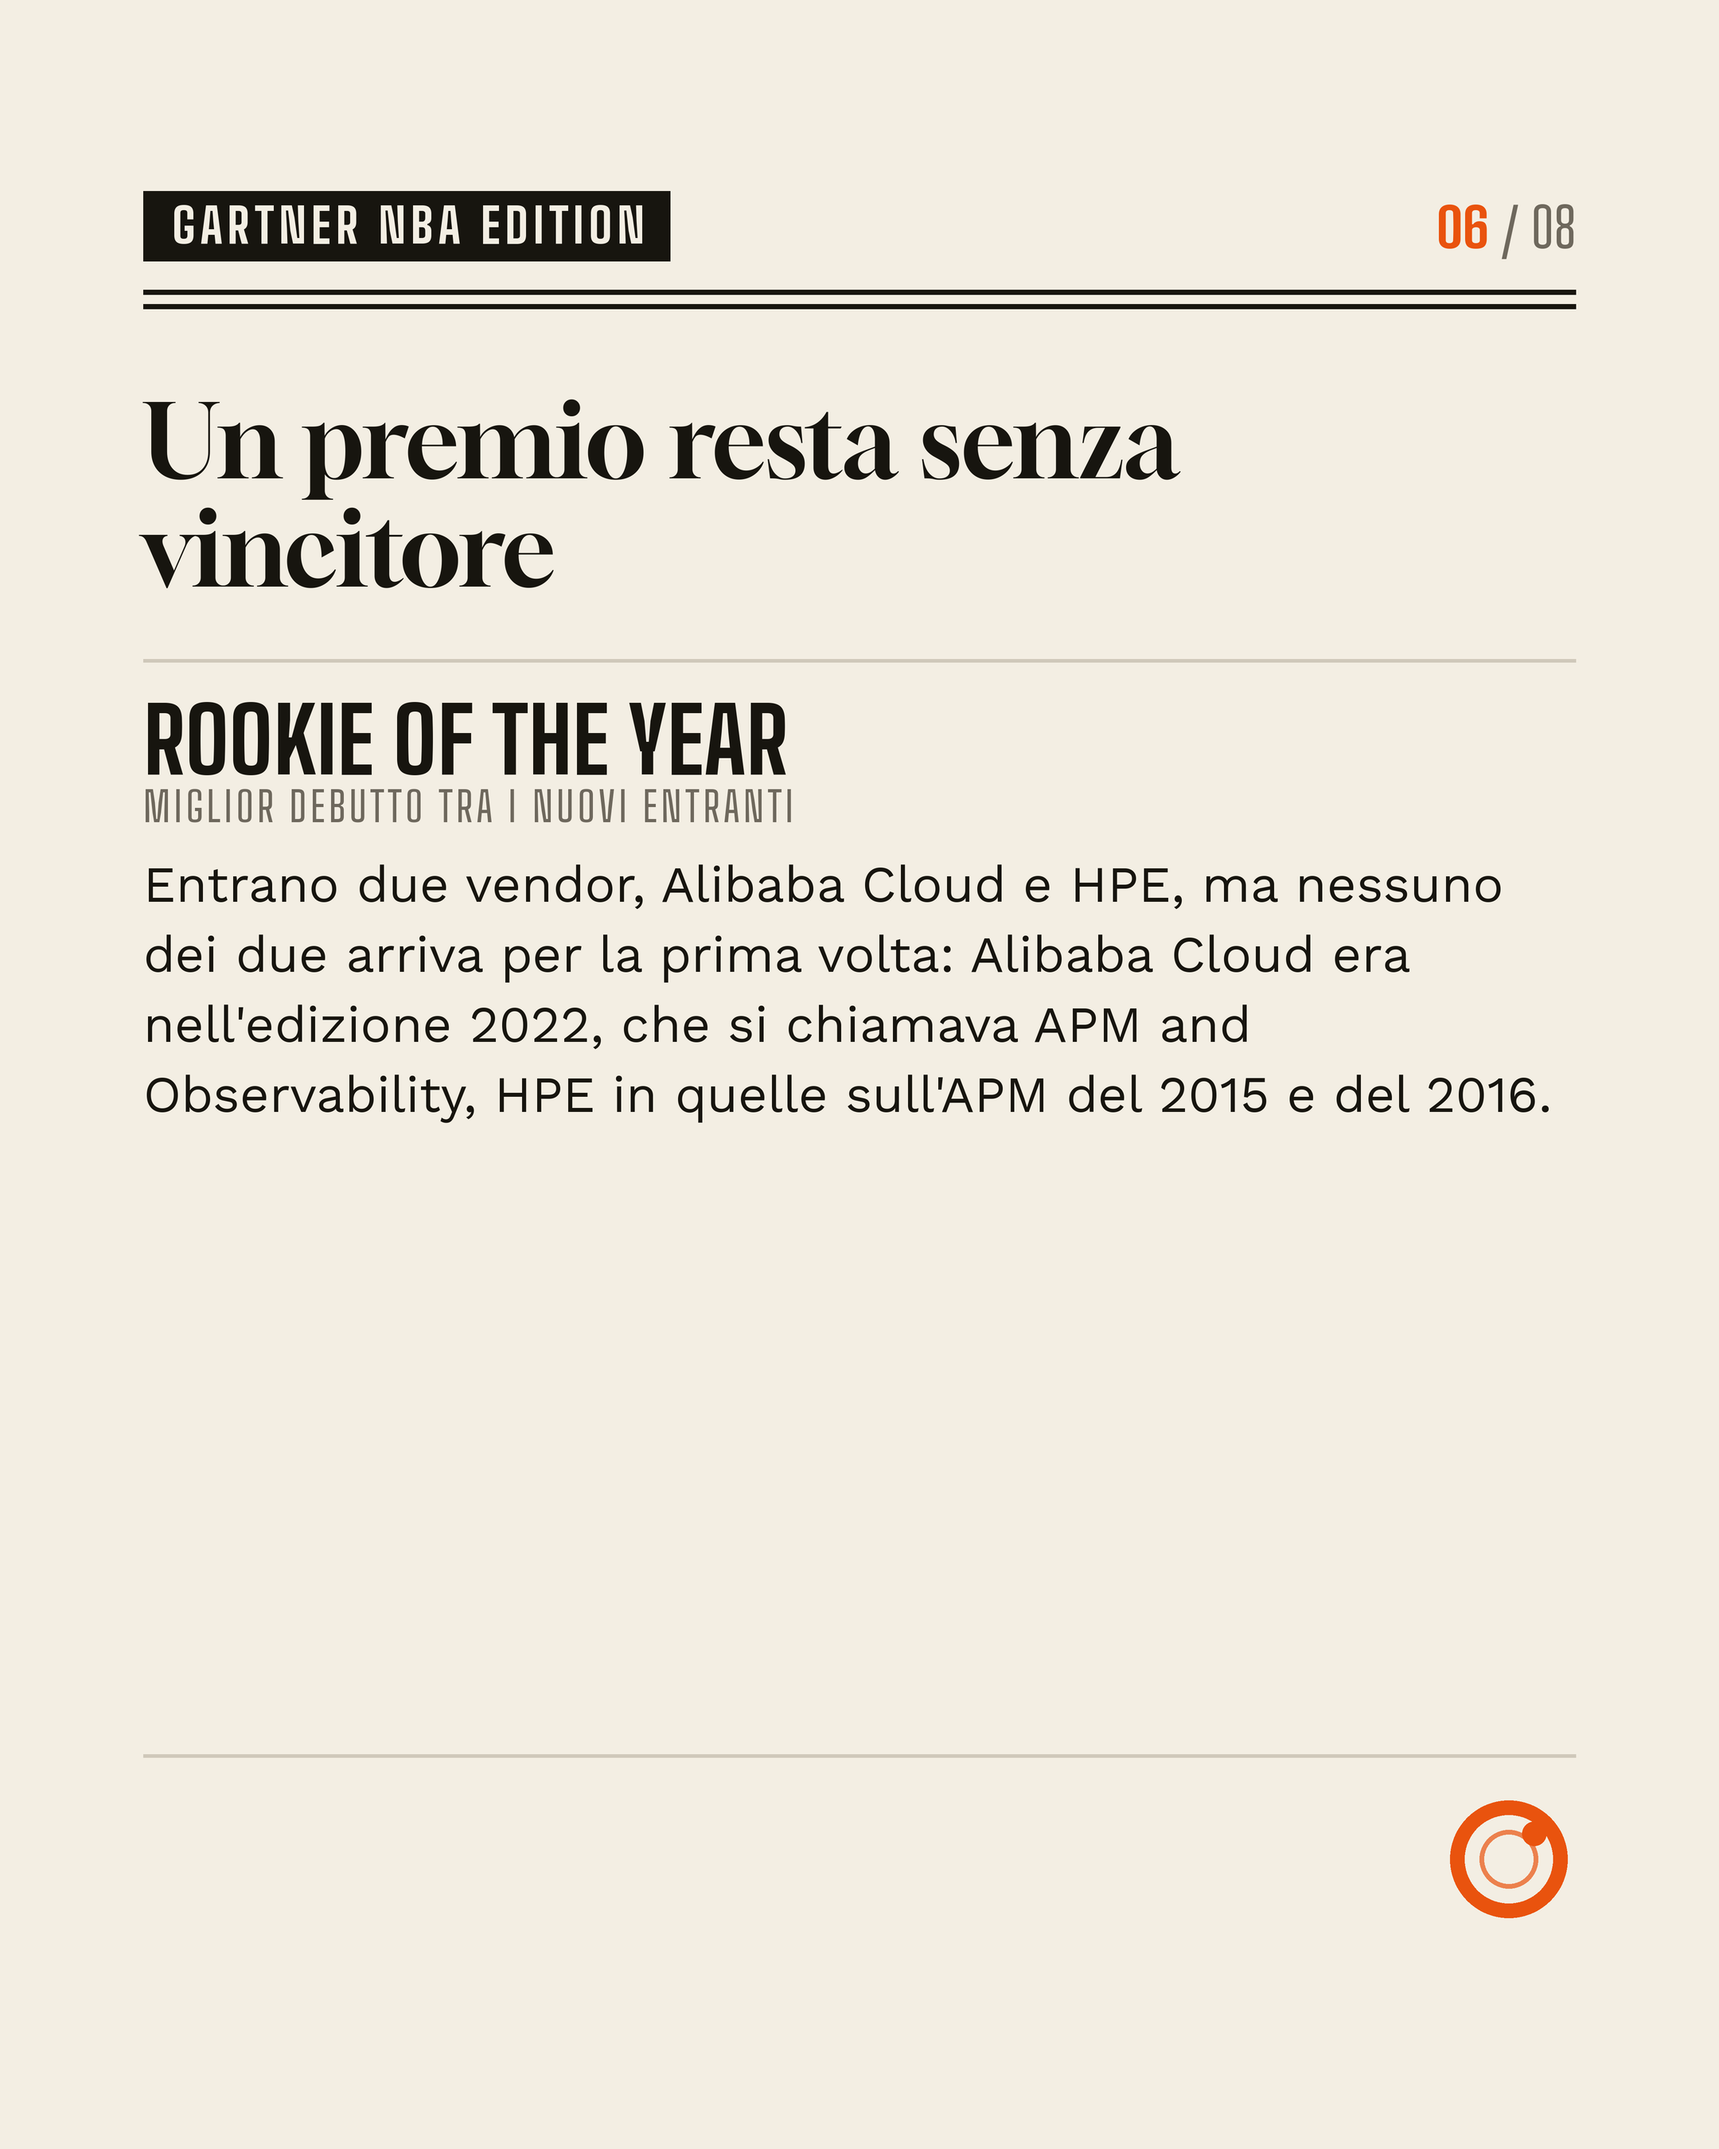
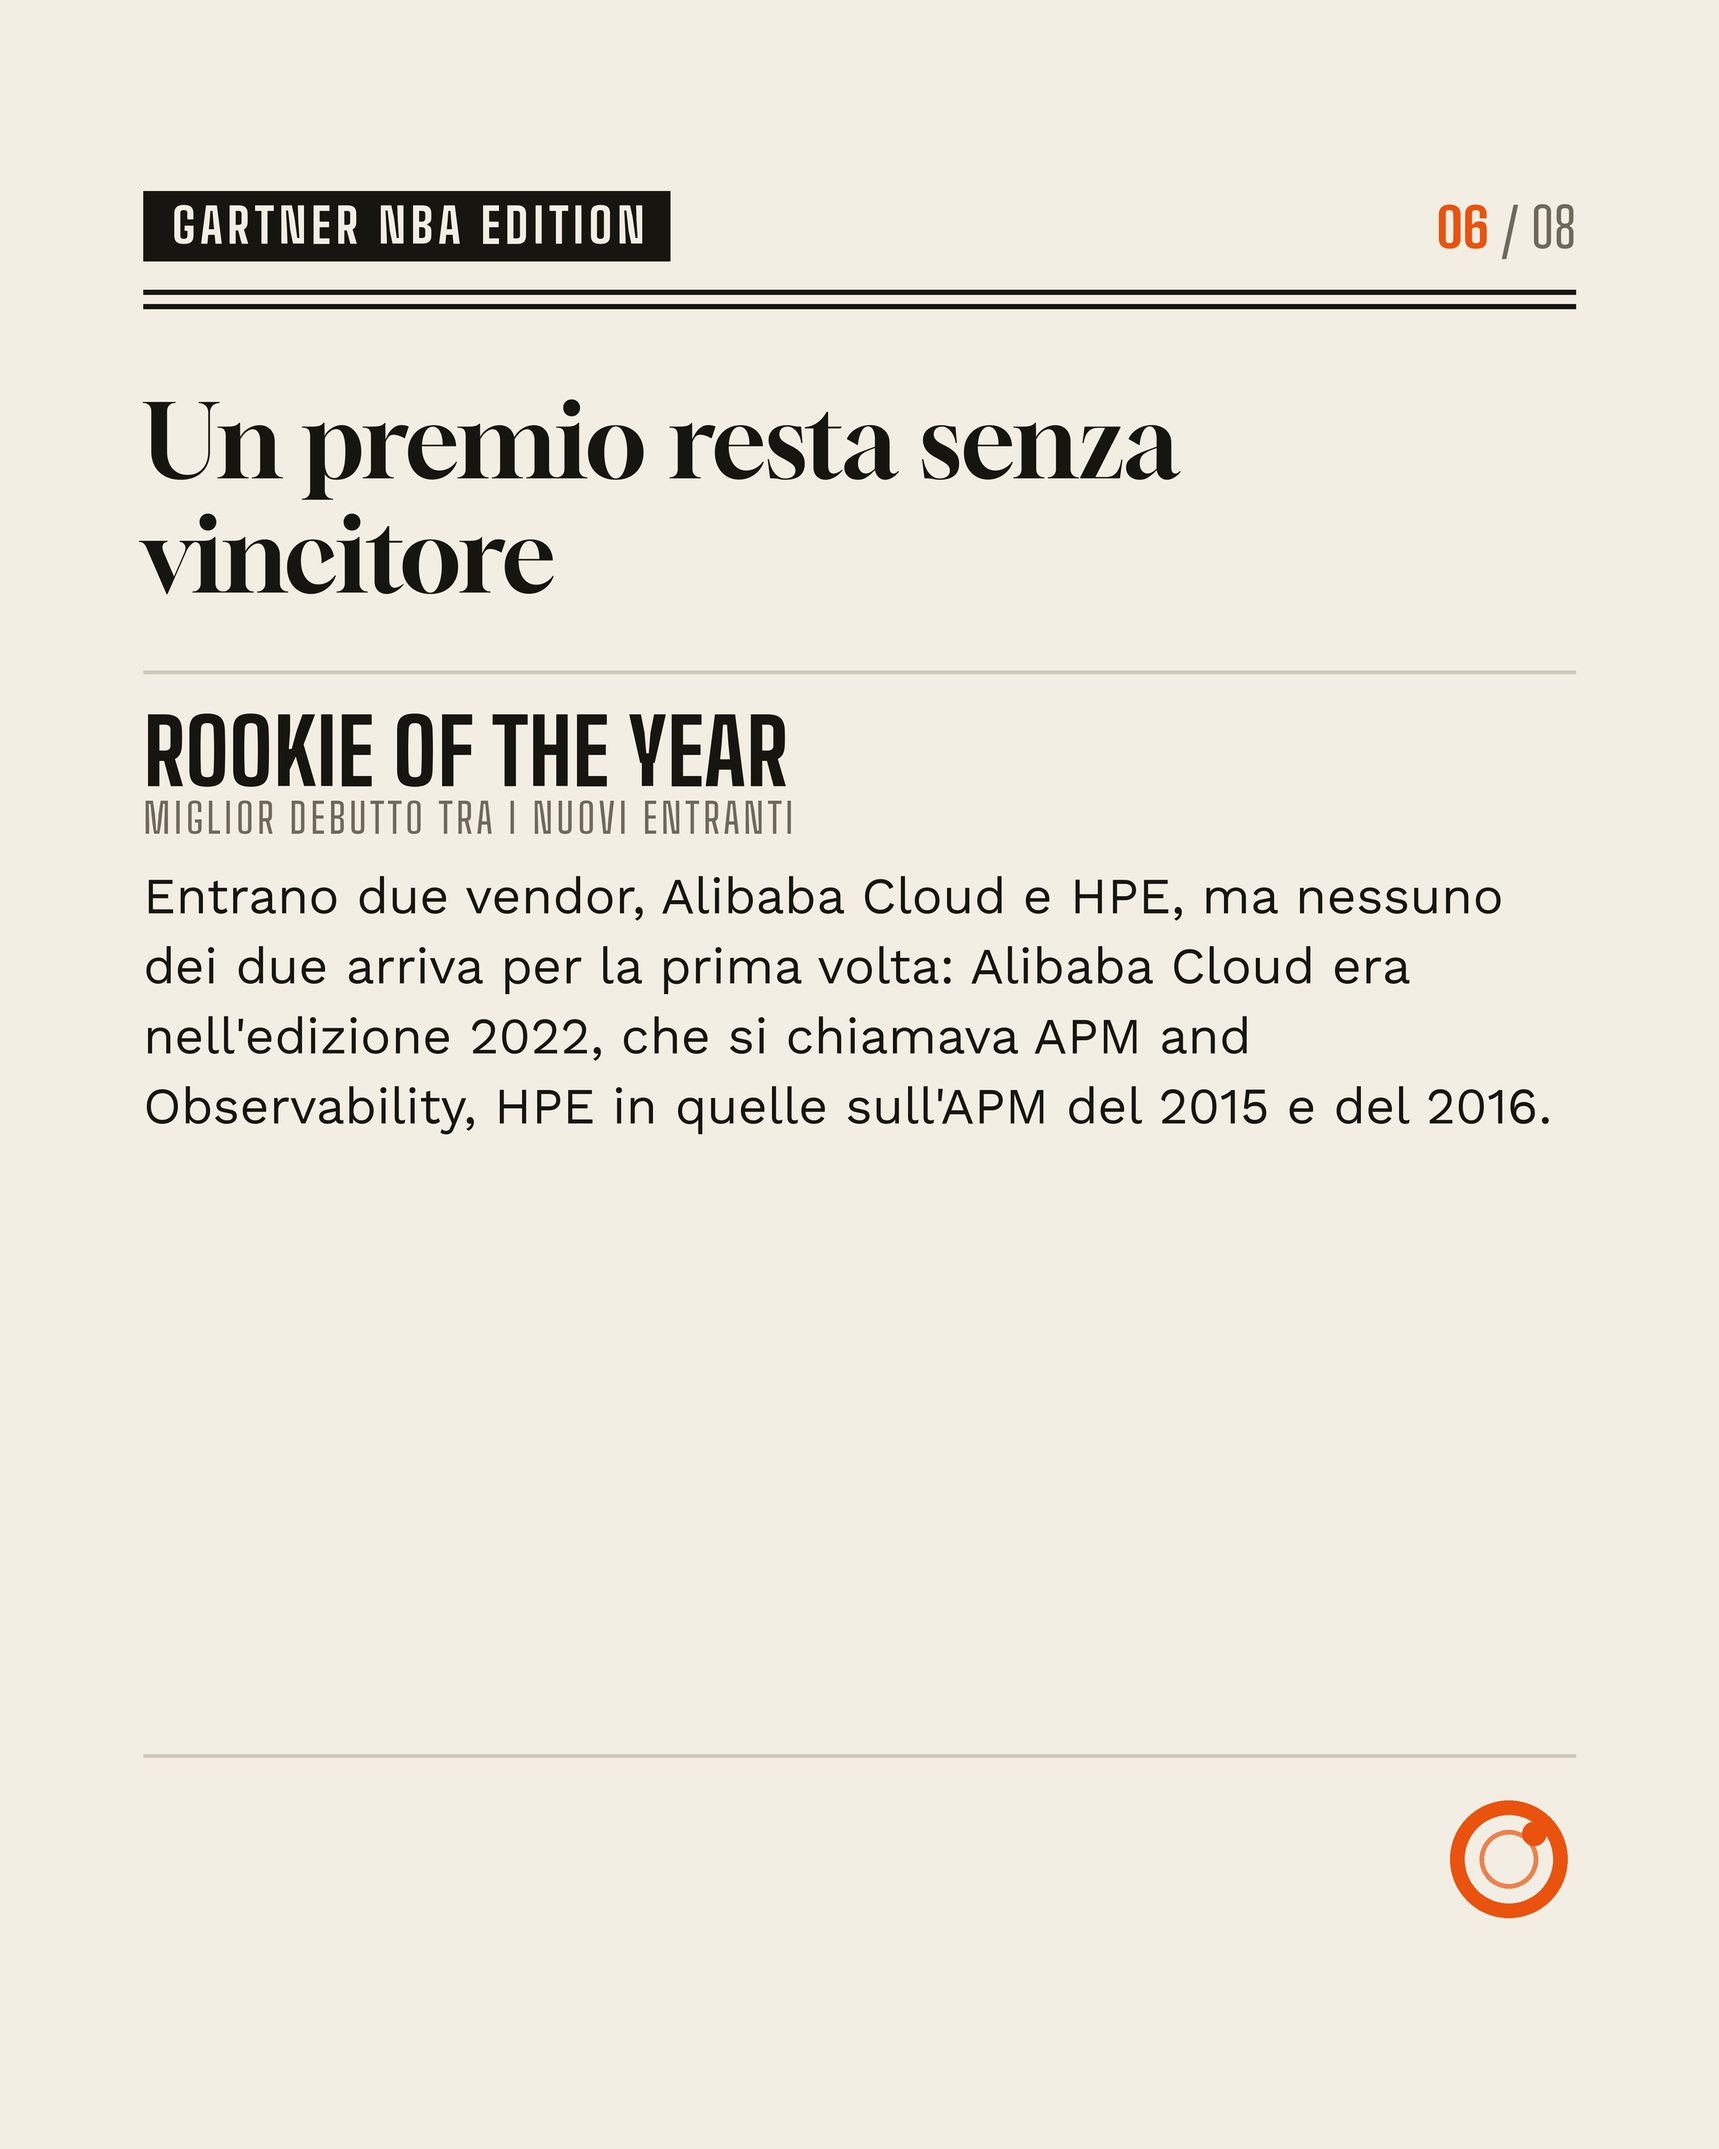
Gartner NBA Edition: nome del Magic Quadrant in copertina, occhiello arancio sopra il titolo (campo «quadrante» di render.py), chiesto da Simone il 14 ottobre 2026; uscite del 20 e del 27 rifatte, con l'interlinea 1,12 dei titoli
Claude-Session: https://claude.ai/code/session_01EB1FDnF1SjtPQJEdgUqDaJ

Changed region(s): [[0.0931, 0.3111, 0.8995, 0.5289], [0.0931, 0.2489, 0.3412, 0.28]]

diff --git a/produzione/render.py b/produzione/render.py
@@ -352,8 +352,29 @@ def slide_copertina(s, fmt, rub, n, tot, chiave):
         # 64 per «E poi»): con la stima a maxw - 80 una voce su due righe sforava nel piede
         rientro = 300 if tabellone else 64
         h_basso = 42 + sum(12 + 2 + 38 * max(1, len(wrap(d, t, fnt_voce, maxw - rientro))) + 8 for _, t in righe_basso) + 2
+    # «quadrante»: il nome preciso del Magic Quadrant, occhiello in arancio sopra l'hook. Sulla
+    # copertina del Gartner c'è sempre (Simone, 14 ottobre 2026). Una riga a 30; se non ci sta,
+    # 26; se non ci sta nemmeno così, due righe spezzate fra le parole
+    quad = s.get("quadrante")
+    if quad:
+        righe_q, corpo_q = [quad.upper()], 30
+        for corpo_q in (30, 26):
+            if larghezza_spaziata(d, righe_q[0], f(TAB, corpo_q), 3) <= maxw:
+                break
+        else:
+            parole = quad.upper().split()
+            for k in range(len(parole) - 1, 0, -1):
+                if larghezza_spaziata(d, " ".join(parole[:k]), f(TAB, corpo_q), 3) <= maxw:
+                    righe_q = [" ".join(parole[:k]), " ".join(parole[k:])]
+                    break
+        for r_q in righe_q:
+            spaziato(d, ml, y + 22, r_q, f(TAB, corpo_q), SEG, 3)
+            y += corpo_q + 6
+        y += 24
     limite = y_piede - 30 - h_basso
     corpi = [s.get("corpo_hook")] if s.get("corpo_hook") else [92, 86, 80, 74, 68, 62]
+    if quad and s.get("corpo_hook"):
+        corpi += [c for c in (92, 86, 80, 74, 68, 62) if c < s["corpo_hook"]]
     # interlinea dell'hook 1,12 dal 13 ottobre 2026, scelta da Simone su Radar Italia: a 1,03 il titolo risultava schiacciato
     c, inter = adatta(d, s["hook"], TESTATA, corpi, INTERLINEA_TITOLO, maxw, limite - y - 40)
     col_hook = INK
